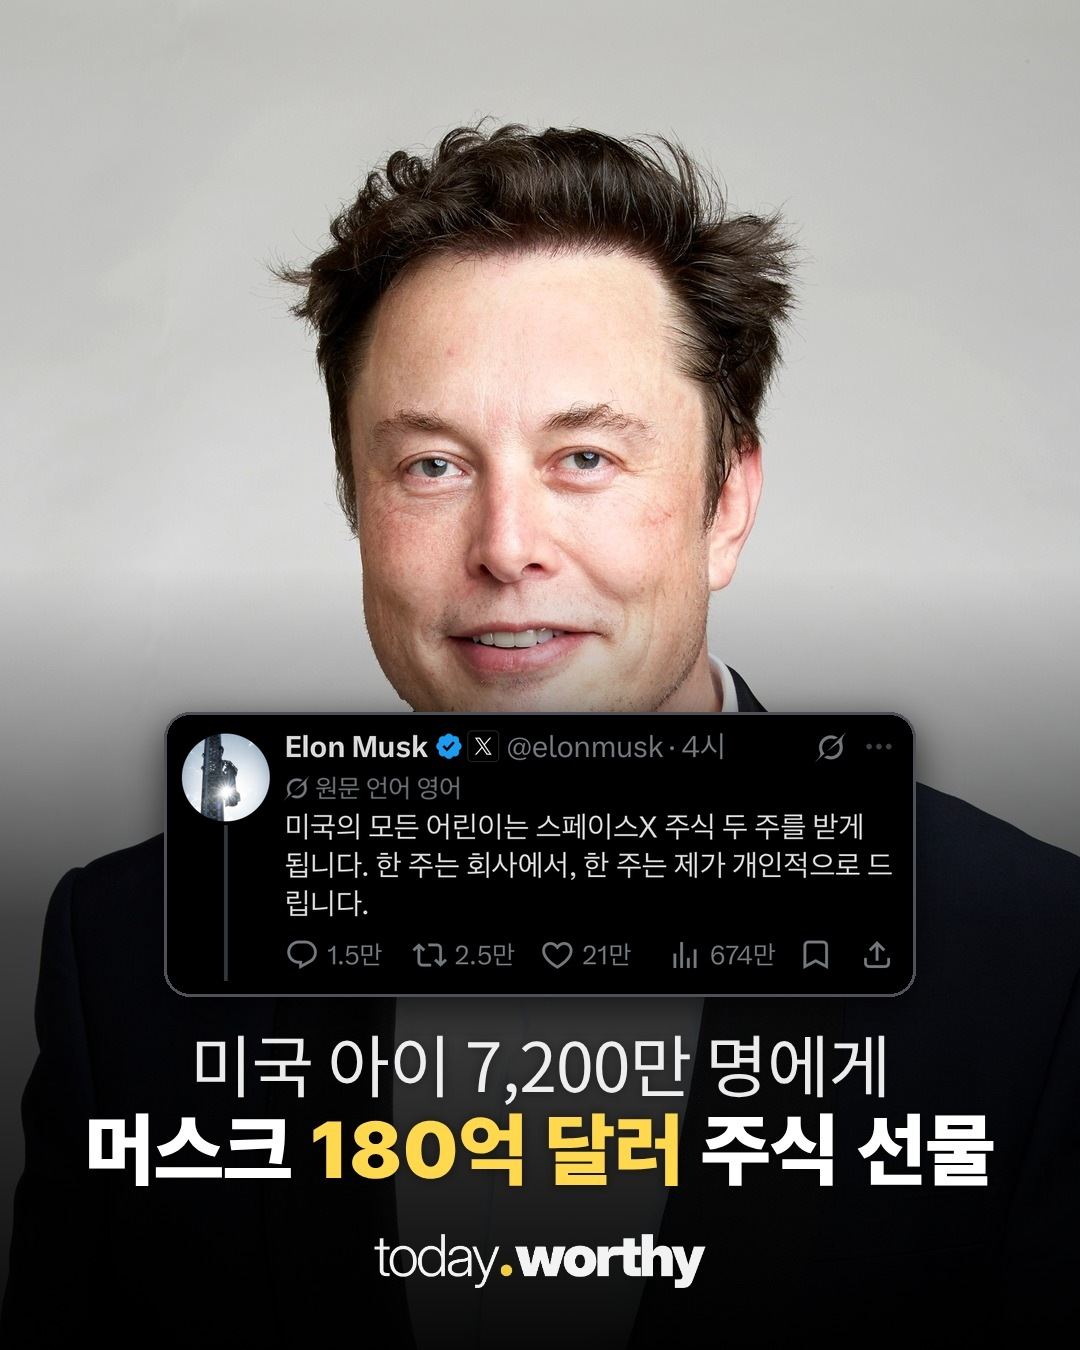
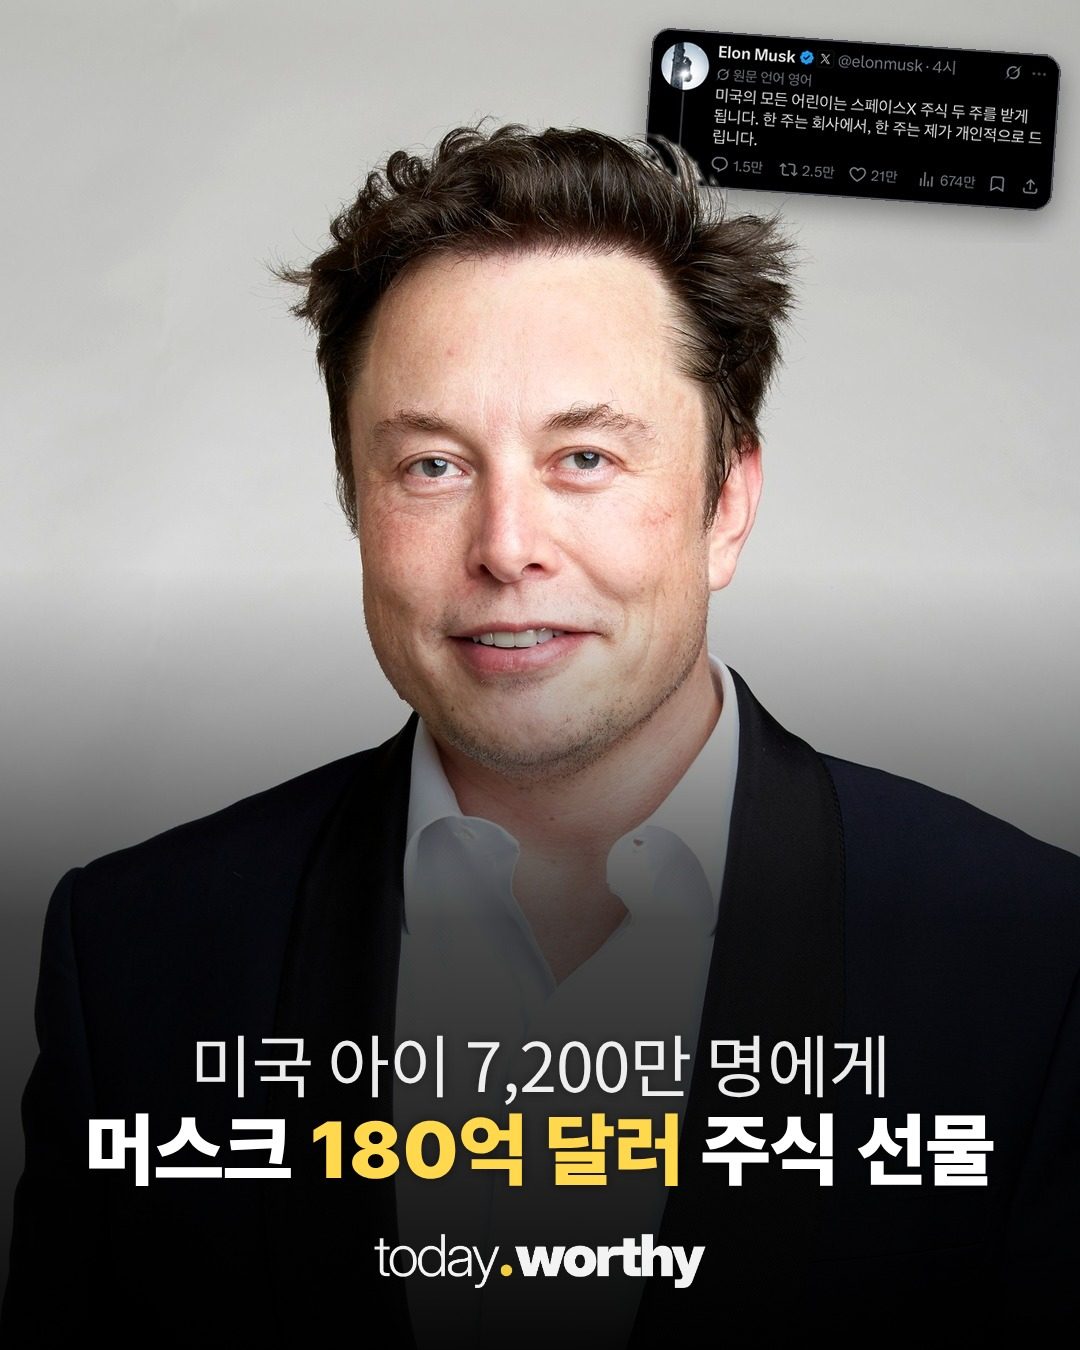
musk: 표지 캡처 카드 오른쪽 위, 머리 뒤로
Claude-Session: https://claude.ai/code/session_01FGsw5S4nGrZdCJo7qBU1wE

diff --git a/media/20261126-musk/make_cover.py b/media/20261126-musk/make_cover.py
@@ -1,17 +1,26 @@
-"""20261126-musk 표지: manual 렌더(01.jpg) 위에 실제 트윗 캡처 카드를 얹는다. manual 다시 돌리면 이것도 다시 실행."""
+"""20261126-musk 표지 배경: 실제 트윗 캡처 카드를 오른쪽 위에 작게, 머스크 머리 뒤로(배경이 밝은 회색이라 밝기로 인물 가림판 만듦).
+결과는 cand/cover_bg.jpg → manual 렌더가 제목을 얹는다."""
 from pathlib import Path
+import numpy as np
 from PIL import Image, ImageOps, ImageDraw, ImageFilter
 D = Path(__file__).parent
-im = Image.open(D / "01.jpg").convert("RGBA")
+src = ImageOps.fit(Image.open(D / "video/img1.jpg").convert("RGB"), (1080, 1350), Image.LANCZOS, centering=(.5, .05))
+bg = src
+a = np.asarray(bg).astype(float); lum = a.mean(2); sat = a.max(2) - a.min(2)
+person = ((lum < 150) | (sat > 40)).astype(np.uint8) * 255
+mask = Image.fromarray(person).filter(ImageFilter.MaxFilter(5)).filter(ImageFilter.MinFilter(5)).filter(ImageFilter.GaussianBlur(1.5))
 cap = Image.open(D / "cand/musk_cap_real.png").convert("RGB")
-w = 720; cap = cap.resize((w, round(cap.height * w / cap.width)), Image.LANCZOS); h = cap.height
-pad = 16; card = Image.new("RGBA", (w + 2 * pad, h + 2 * pad), (0, 0, 0, 0)); d = ImageDraw.Draw(card)
-d.rounded_rectangle((0, 0, card.width - 1, card.height - 1), 26, fill=(0, 0, 0, 255), outline=(80, 80, 88, 255), width=3)
-m = Image.new("L", cap.size, 0); ImageDraw.Draw(m).rounded_rectangle((0, 0, w - 1, h - 1), 14, fill=255)
+w = 390; cap = cap.resize((w, round(cap.height * w / cap.width)), Image.LANCZOS); h = cap.height
+pad = 10; card = Image.new("RGBA", (w + 2 * pad, h + 2 * pad), (0, 0, 0, 0)); d = ImageDraw.Draw(card)
+d.rounded_rectangle((0, 0, card.width - 1, card.height - 1), 18, fill=(0, 0, 0, 255), outline=(80, 80, 88, 255), width=2)
+m = Image.new("L", cap.size, 0); ImageDraw.Draw(m).rounded_rectangle((0, 0, w - 1, h - 1), 10, fill=255)
 card.paste(cap, (pad, pad), m)
-sh = Image.new("RGBA", (card.width + 80, card.height + 80), (0, 0, 0, 0))
-ImageDraw.Draw(sh).rounded_rectangle((40, 50, card.width + 40, card.height + 50), 26, fill=(0, 0, 0, 170)); sh = sh.filter(ImageFilter.GaussianBlur(18))
-x = (im.width - card.width) // 2; y = 712
-im.alpha_composite(sh, (x - 40, y - 40)); im.alpha_composite(card, (x, y))
-im.convert("RGB").save(D / "01.jpg", quality=93)
-print("ok", y + card.height)
+card = card.rotate(-4, expand=True, resample=Image.BICUBIC)
+sh = Image.new("RGBA", (card.width + 60, card.height + 60), (0, 0, 0, 0)); sh.paste((0, 0, 0, 110), (30, 40), card.split()[3])
+sh = sh.filter(ImageFilter.GaussianBlur(14))
+x, y = 1080 - card.width - 18, 26
+out = bg.convert("RGBA"); out.alpha_composite(sh, (x - 30, y - 30)); out.alpha_composite(card, (x, y))
+out = Image.composite(bg.convert("RGBA"), out, mask)  # 인물(머리)이 카드 위로
+out.convert("RGB").save(D / "cand/cover_bg.jpg", quality=94)
+mask.save(D / "cand/person_mask.png")
+print("ok", x, y, card.size)
